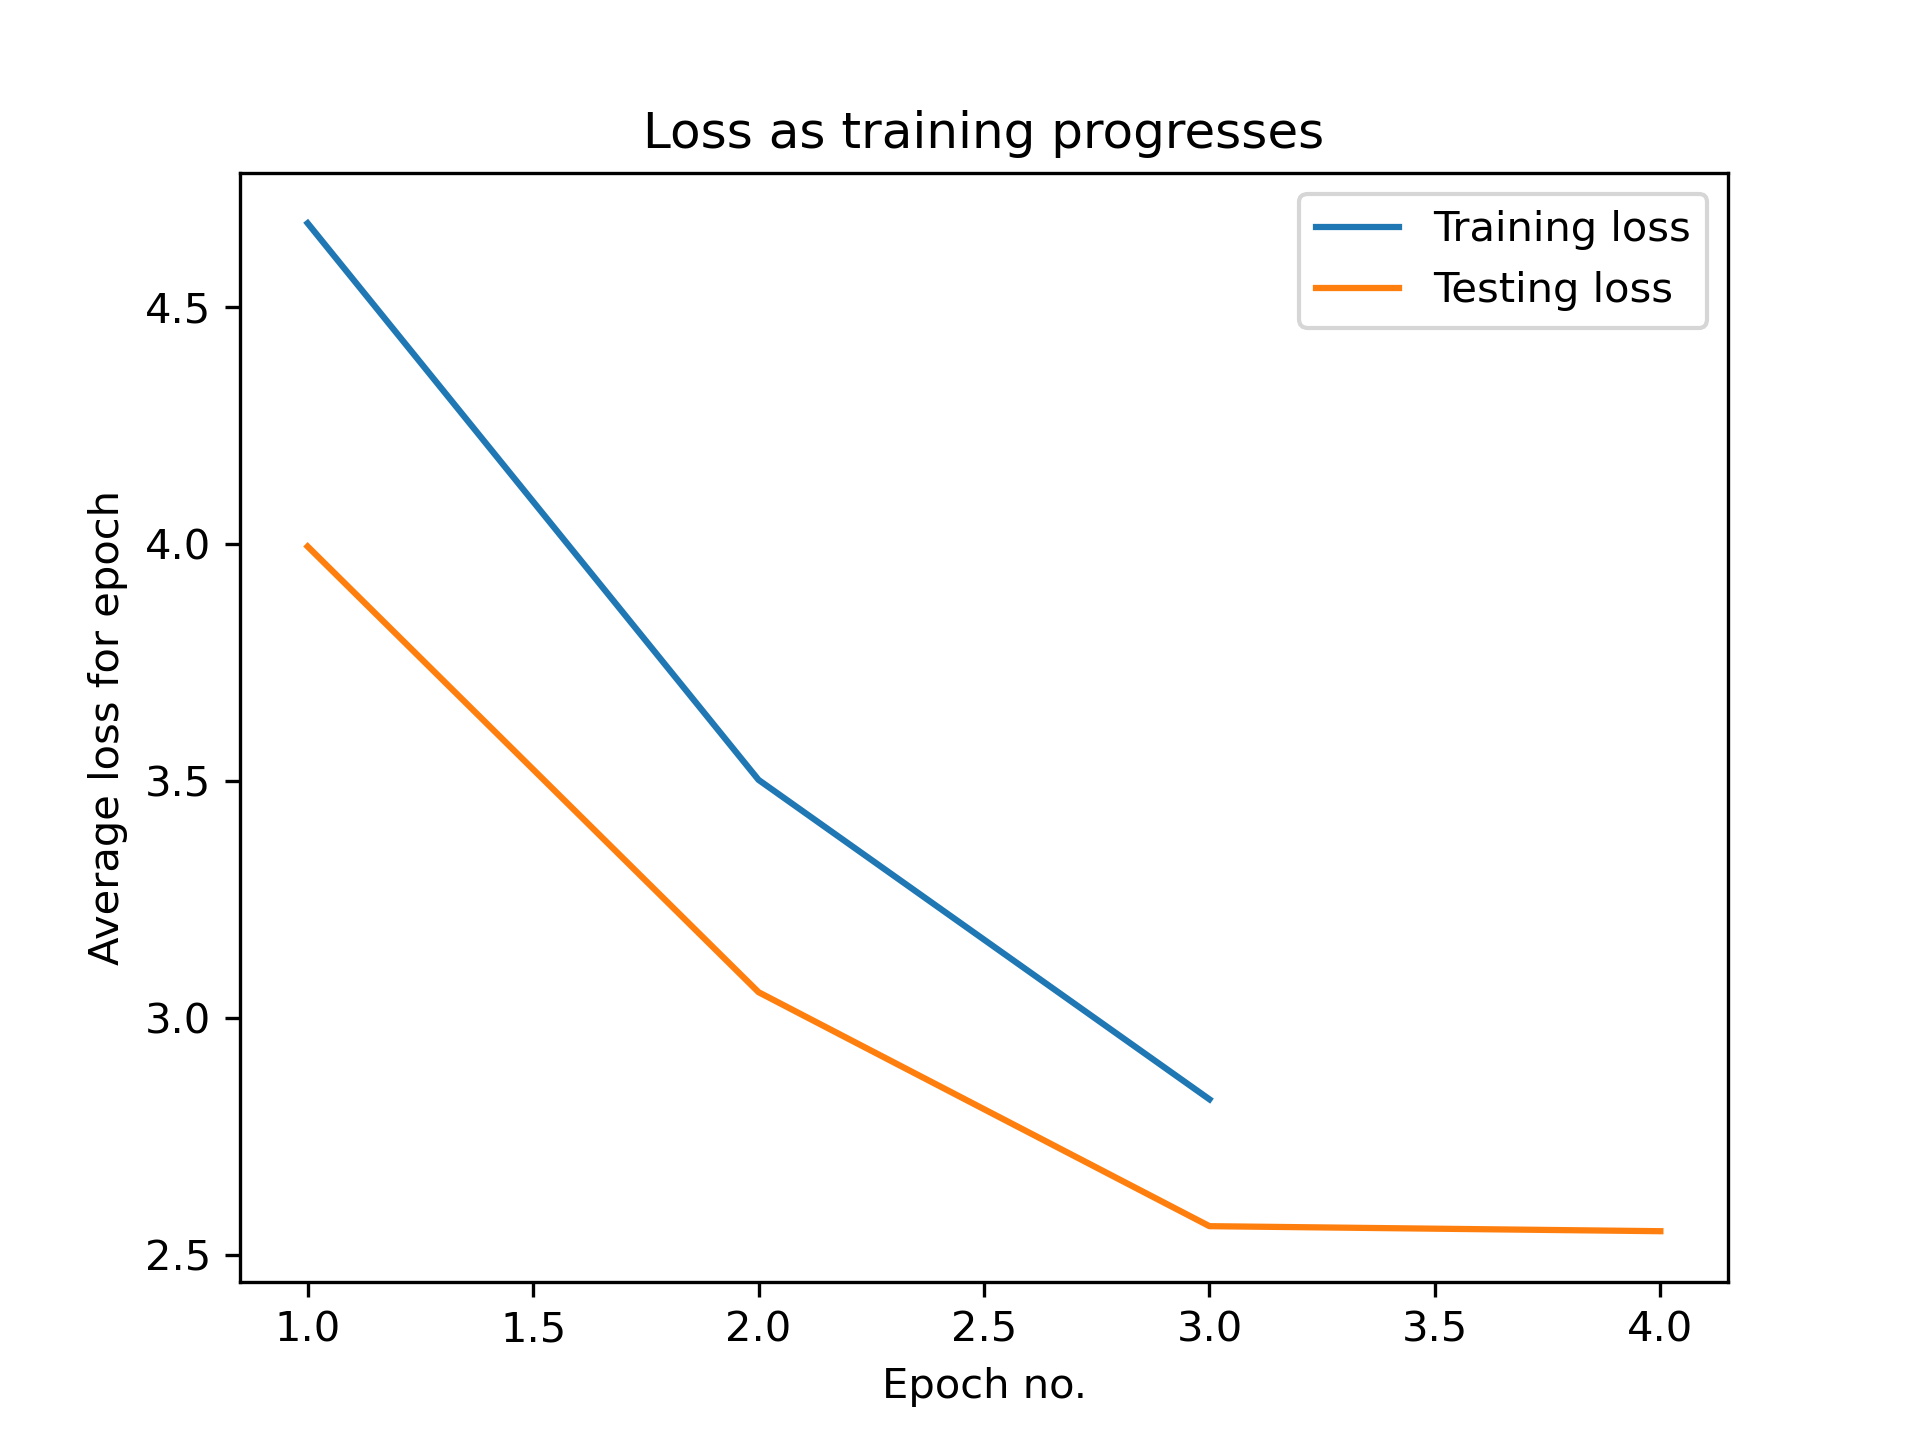
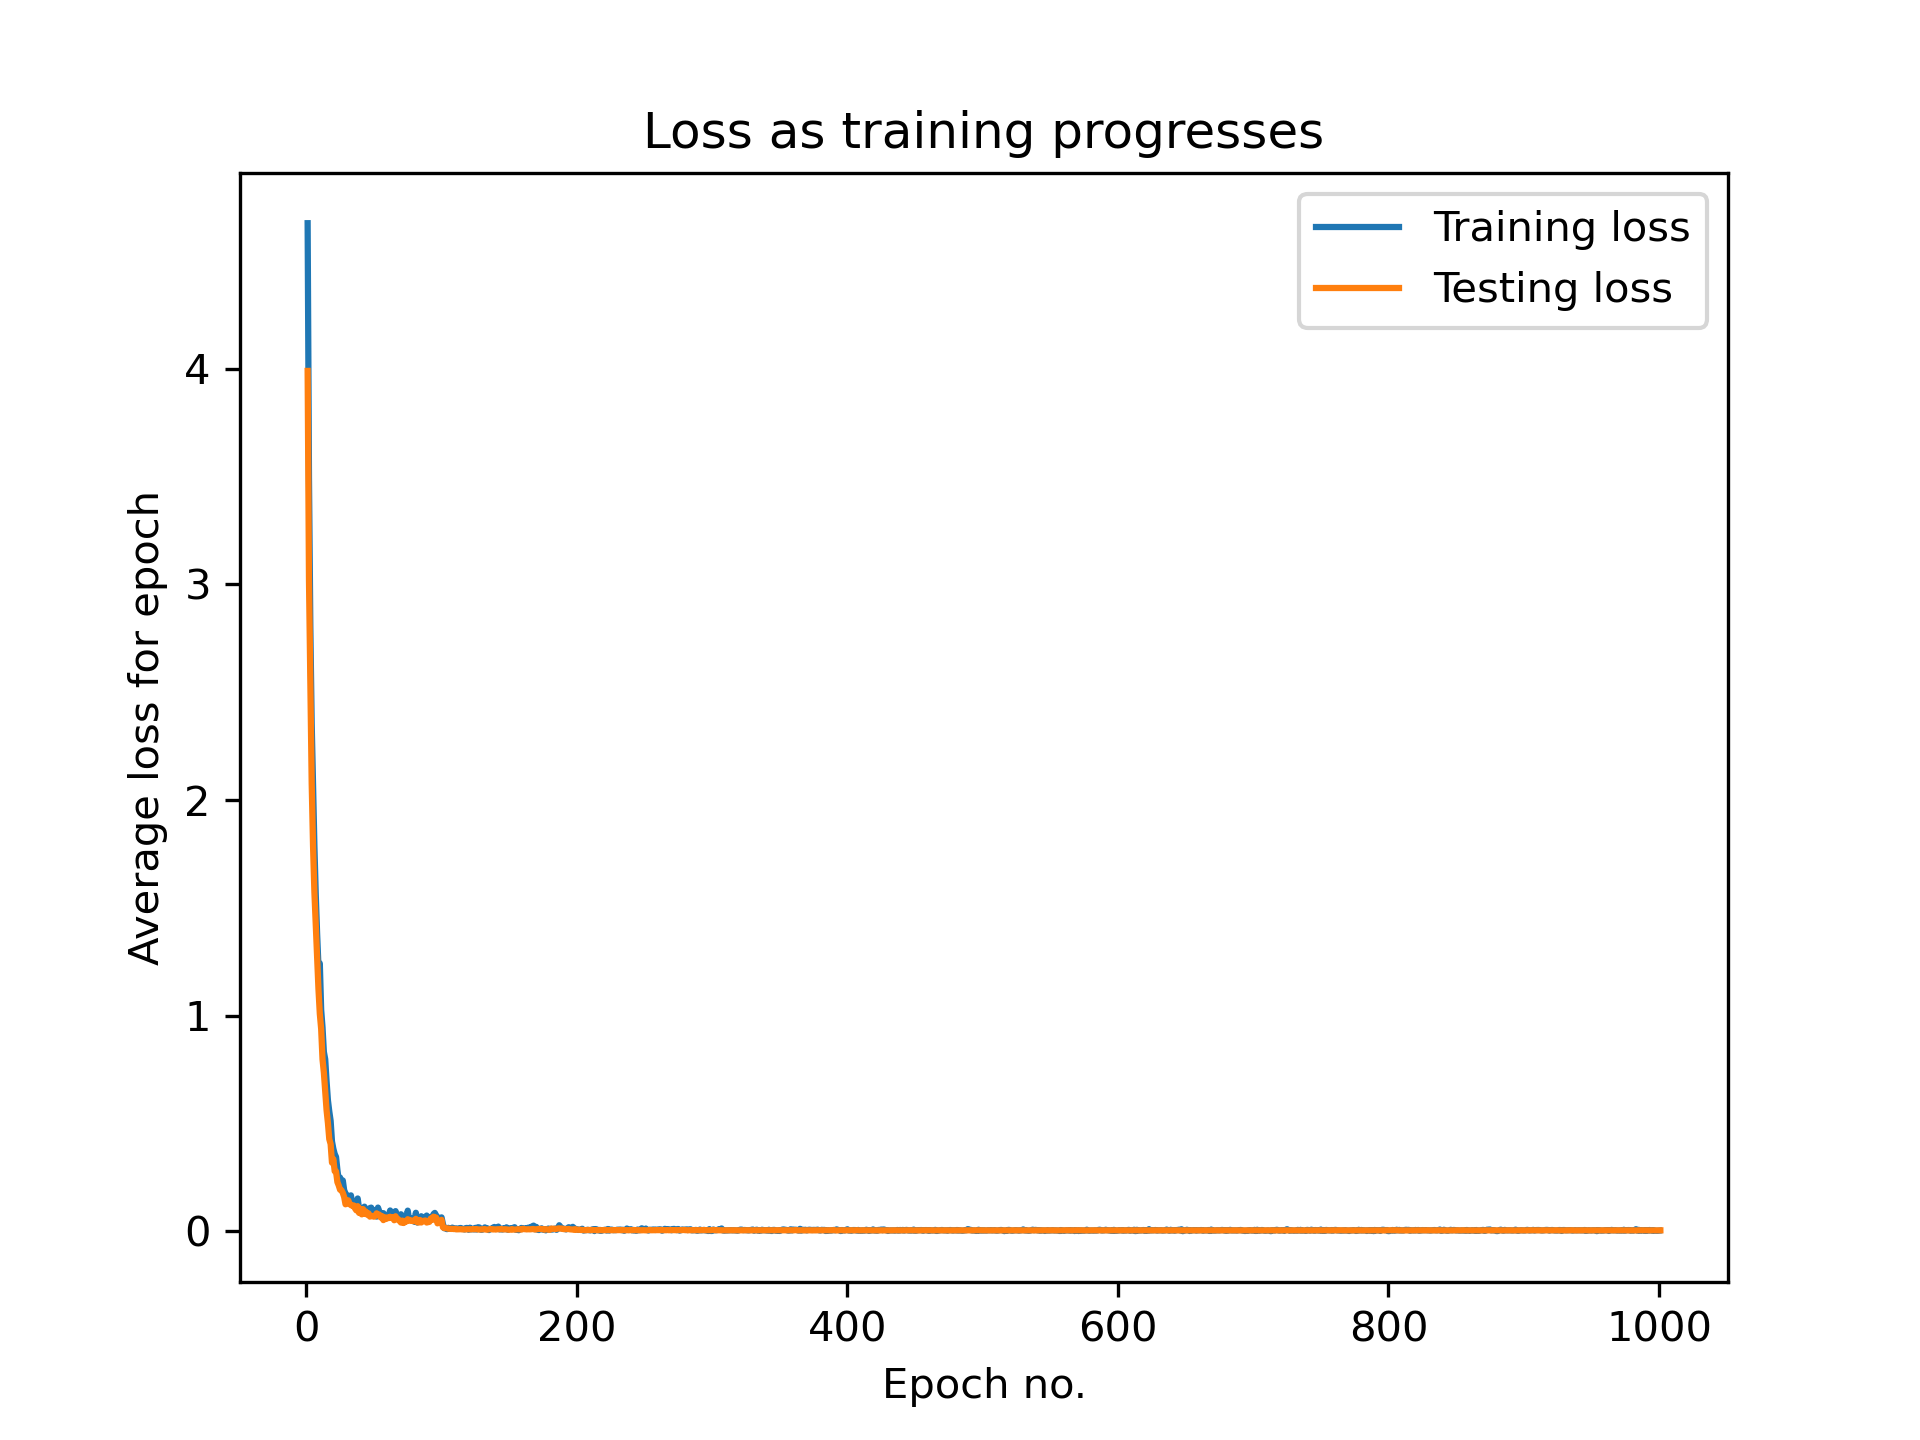
tested version1

diff --git a/classification/train/train.py b/classification/train/train.py
@@ -19,7 +19,7 @@ def train():
     torch.manual_seed(0)
 
     # train constants
-    no_epochs = 3
+    no_epochs = 1000
     save_iter = 10
     epoch_decay = 100 
     batch_size = 256
@@ -74,7 +74,8 @@ def train():
         # calculates mean of losses for current epoch and appends to list of avgs
         training_proc_avg.append(mean(current_losses)) 
 
-        # validates on test set once per epoch
+        # validates on test set once per epoch (or a few no of epochs)
+        # TO DO: ADD EARLY STOPPING IF TEST_PROC_AVG[current]>test_proc[prev] break;
         validate(device=device, batch_size=batch_size, 
         classes=classes,
         model=model, criterion=criterion, no_classes=no_classes, 

diff --git a/classification/README.md b/classification/README.md
@@ -1,1 +1,9 @@
 Anime character recognition/classification using PyTorch
+
+# to do
+first working version of anime waifu classifier. 
+need to separate into training, validation and testing set. 
+also add more loss functions. add more datasets: danbooru faces subset. 
+need to try different architectures: resnet, img_transformer?
+long tailed version requires resampling (use singan)
+
